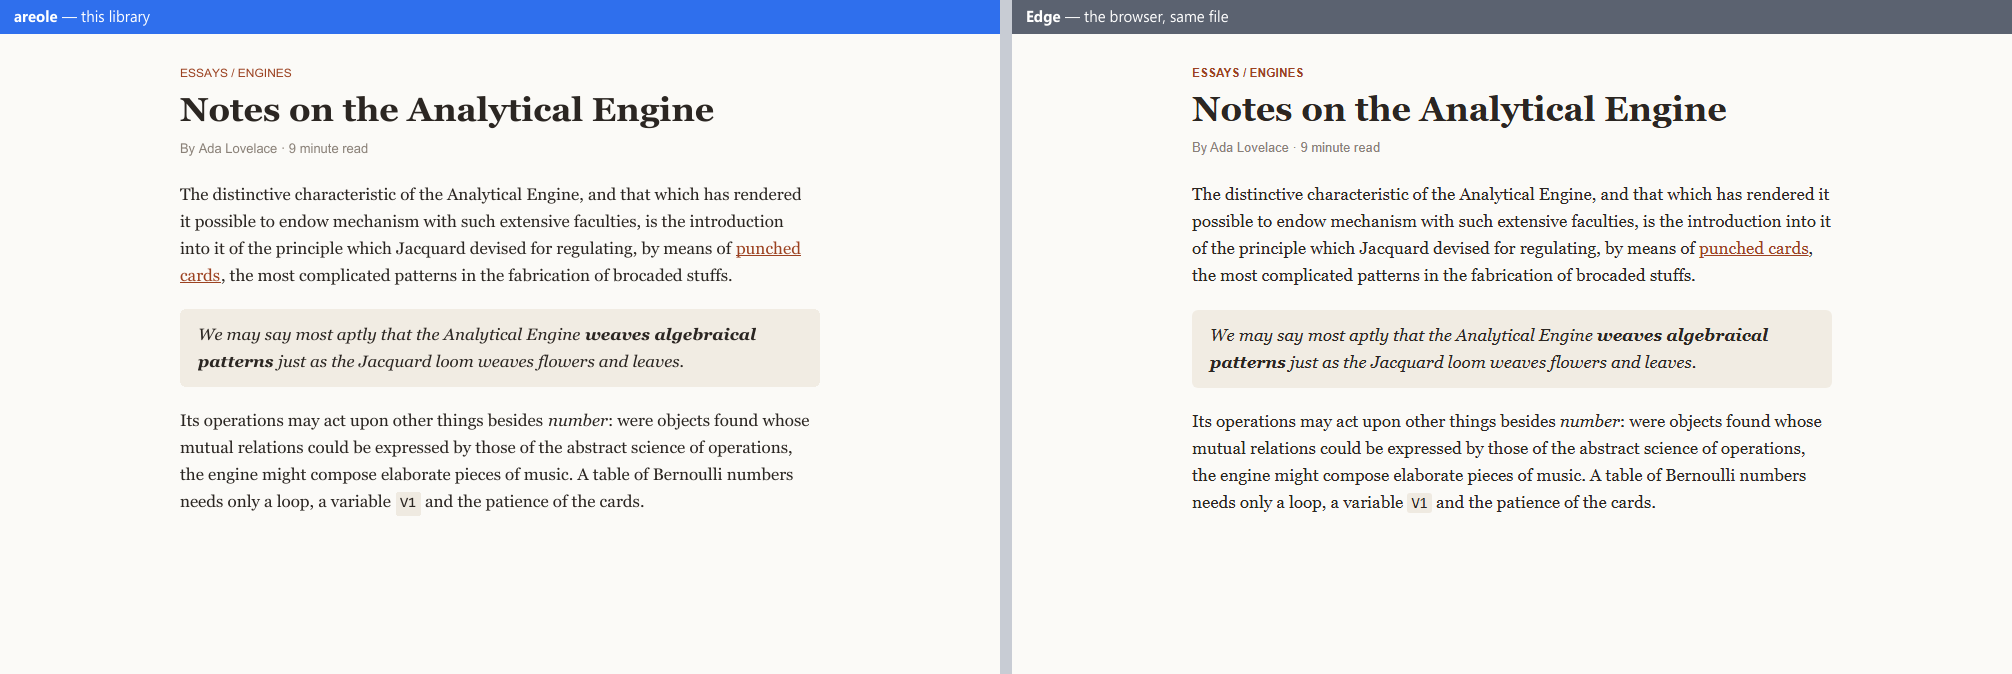
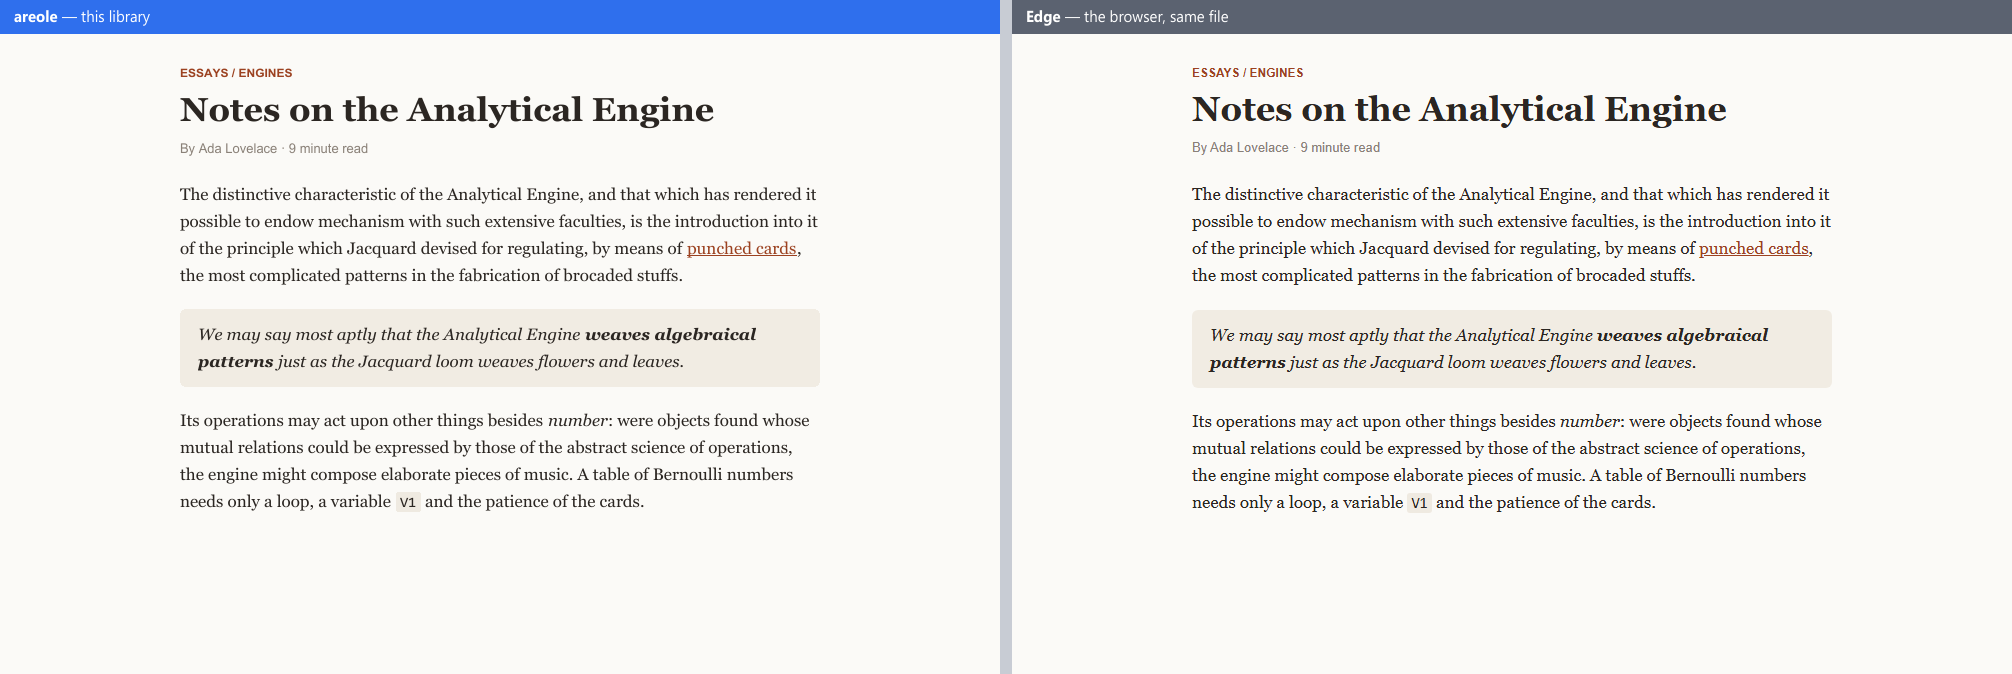
docs: the README's pictures after the six fixes
Redrawn with tools/readme_shots.py: the article keeps "rendered it" on its
first line and draws its sans-serif heading bold, the code box is the
font's height, and the form's fields and buttons are what Edge draws. The
sans-serif and monospace families are now given their bold faces.

Changed region(s): [[0.0924, 0.3116, 0.4006, 0.4362], [0.0924, 0.0935, 0.1541, 0.1246]]

diff --git a/tools/readme_shots.py b/tools/readme_shots.py
@@ -43,11 +43,14 @@ PAGE = os.path.join(ROOT, 'docs', 'showcase.html')
 W, H = 1000, 640
 
 # (name, page, faces, size): the styles the README shows beside Edge.
-SEGOE = {'body': 'segoeui.ttf', 'bold': 'segoeuib.ttf', 'sans': 'segoeui.ttf', 'mono': 'consola.ttf'}
+SEGOE = {'body': 'segoeui.ttf', 'bold': 'segoeuib.ttf', 'sans': 'segoeui.ttf', 'sans-bold': 'segoeuib.ttf',
+         'mono': 'consola.ttf'}
 GEORGIA = {'body': 'georgia.ttf', 'bold': 'georgiab.ttf', 'italic': 'georgiai.ttf',
-           'bold-italic': 'georgiaz.ttf', 'sans': 'arial.ttf', 'mono': 'consola.ttf'}
+           'bold-italic': 'georgiaz.ttf', 'sans': 'arial.ttf', 'sans-bold': 'arialbd.ttf',
+           'mono': 'consola.ttf'}
 DEFAULTS = {'body': 'times.ttf', 'bold': 'timesbd.ttf', 'italic': 'timesi.ttf',
-            'bold-italic': 'timesbi.ttf', 'sans': 'arial.ttf', 'mono': 'consola.ttf'}
+            'bold-italic': 'timesbi.ttf', 'sans': 'arial.ttf', 'sans-bold': 'arialbd.ttf',
+            'mono': 'consola.ttf', 'mono-bold': 'consolab.ttf'}
 STYLES = [
     ('settings', 'docs/showcase.html', SEGOE, (1000, 640)),
     ('dashboard', 'docs/styles/dashboard.html', SEGOE, (1000, 640)),
